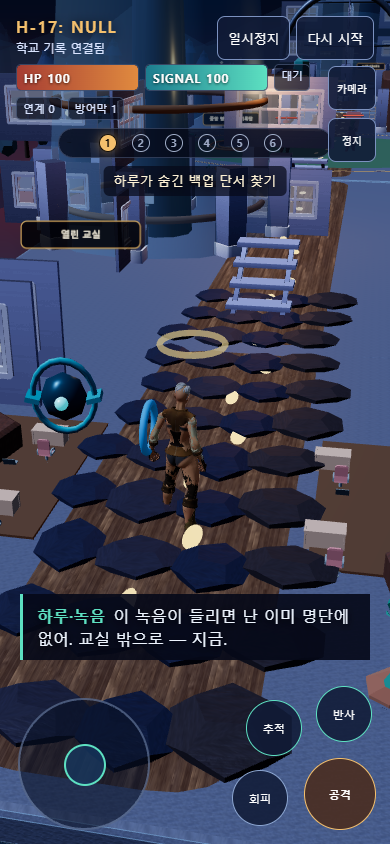
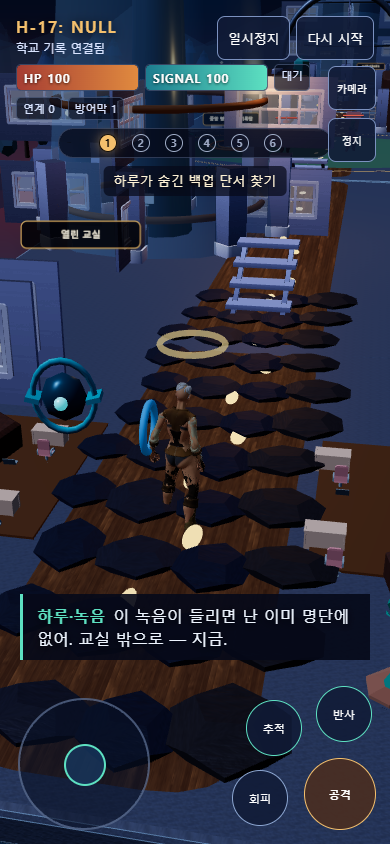
feat(reboot): deepen the campus night contrast

diff --git a/tests/reboot-floating-campus.test.js b/tests/reboot-floating-campus.test.js
@@ -112,6 +112,11 @@ test('Given the first campus vista, When framed from the route camera, Then lice
   assert.equal(Math.max(...CAMPUS_FIRST_VISTA_ASSET_PLACEMENTS.map(({ position }) => position.y)) >= 0.42, true);
   assert.equal(CAMPUS_FIRST_VISTA_ASSET_PLACEMENTS.every(({ assetId }) => allowedAssets.has(assetId)), true);
   assert.equal(CAMPUS_FIRST_VISTA_ASSET_PLACEMENTS.filter(({ assetId }) => assetId === 'campus-hero-rock').length, 1);
+  const heroRock = CAMPUS_FIRST_VISTA_ASSET_PLACEMENTS.find(({ assetId }) => assetId === 'campus-hero-rock');
+  assert.equal(heroRock.position.x >= 5.2, true);
+  assert.equal(heroRock.position.z <= 3.2, true);
+  assert.equal(heroRock.scale <= 1.6, true);
+  assert.equal(rightWing.some(({ assetId }) => assetId === 'campus-tree'), false);
   assert.equal(CAMPUS_FIRST_VISTA_ASSET_PLACEMENTS.every((entry) => CAMPUS_ASSET_PLACEMENTS.includes(entry)), true);
 });
 
@@ -161,8 +166,9 @@ test('Given licensed assets load successfully, When the floating campus becomes 
   assert.equal(treeBatch.material.emissiveIntensity, 0.42);
   assert.equal(treeBatch.material.roughness, 0.92);
   const heroRockBatch = scene.getObjectByName('campus-asset-campus-hero-rock-batch-0');
-  assert.equal(heroRockBatch.material.emissive.getHex(), 0x31445f);
-  assert.equal(heroRockBatch.material.emissiveIntensity, 0.48);
+  assert.equal(heroRockBatch.material.color.getHex(), 0x4a4e5b);
+  assert.equal(heroRockBatch.material.emissive.getHex(), 0x101927);
+  assert.equal(heroRockBatch.material.emissiveIntensity, 0.08);
   assert.equal(heroRockBatch.material.metalness, 0);
 
   campus.dispose();

diff --git a/src/reboot/content/campus/chapterOneCampus.js b/src/reboot/content/campus/chapterOneCampus.js
@@ -115,7 +115,7 @@ export const CAMPUS_FIRST_VISTA_ASSET_PLACEMENTS = Object.freeze([
   vistaPlacement('campus-bush', 'left', { x: -4.2, y: 0.3, z: 1.45 }, 1.48, 0.35),
   vistaPlacement('campus-grass', 'left', { x: -5.3, y: 0.16, z: 1.3 }, 1.35, -0.7),
   vistaPlacement('memory-flower', 'left', { x: -4.05, y: 0.46, z: 3.05 }, 1.75, 0.3),
-  vistaPlacement('campus-hero-rock', 'right', { x: 3.9, y: 0.02, z: 4 }, 3.2, -0.45),
+  vistaPlacement('campus-hero-rock', 'right', { x: 5.45, y: 0.08, z: 2.8 }, 1.55, -0.45),
   vistaPlacement('campus-rock', 'right', { x: 3.4, y: 0.02, z: 4.3 }, 1.1, 0.8),
   vistaPlacement('campus-bush', 'right', { x: 4.05, y: 0, z: 3.85 }, 1.25, 0.8),
   vistaPlacement('campus-grass', 'right', { x: 3.3, y: 0.02, z: 3.55 }, 1.25, -0.5),
@@ -124,7 +124,7 @@ export const CAMPUS_FIRST_VISTA_ASSET_PLACEMENTS = Object.freeze([
   vistaPlacement('campus-bush', 'right', { x: 3.25, y: 0, z: 2.75 }, 1, -0.7),
   vistaPlacement('campus-grass', 'right', { x: 4.1, y: 0.02, z: 3.1 }, 1.02, 0.6),
   vistaPlacement('memory-flower', 'right', { x: 3.55, y: 0.03, z: 3.25 }, 1.45, -0.1),
-  vistaPlacement('campus-tree', 'right', { x: 5.7, y: 0.1, z: 1.4 }, 1.65, 0.28),
+  vistaPlacement('campus-bush', 'right', { x: 5.7, y: 0.1, z: 1.4 }, 1.4, 0.28),
   vistaPlacement('campus-rock', 'right', { x: 4.85, y: 0.34, z: 5.8 }, 1.55, -0.55),
   vistaPlacement('campus-bush', 'right', { x: 4.45, y: 0.44, z: 4.8 }, 1.75, 0.45),
   vistaPlacement('campus-grass', 'right', { x: 5.55, y: 0.2, z: 3.7 }, 1.6, -0.82),

diff --git a/src/reboot/render/floatingCampusEnvironment.js b/src/reboot/render/floatingCampusEnvironment.js
@@ -32,8 +32,9 @@ const ASSET_NIGHT_TREATMENTS = Object.freeze({
   'campus-grass': Object.freeze({ emissive: 0x163d32, intensity: 0.36, roughness: 0.94 }),
   'campus-hero-rock': Object.freeze({
     clearMetalRoughnessMaps: true,
-    emissive: 0x31445f,
-    intensity: 0.48,
+    color: 0x4a4e5b,
+    emissive: 0x101927,
+    intensity: 0.08,
     metalness: 0,
     normalScale: 0.42,
     roughness: 0.96
@@ -187,6 +188,7 @@ function applyAssetPbrMaterials(assetRoot, materials) {
     const objectMaterials = Array.isArray(object.material) ? object.material : [object.material];
     for (const material of objectMaterials) {
       if (!material?.isMeshStandardMaterial) continue;
+      if (Number.isFinite(treatment.color)) material.color.setHex(treatment.color);
       material.emissive.setHex(treatment.emissive);
       material.emissiveIntensity = treatment.intensity;
       if (Number.isFinite(treatment.metalness)) material.metalness = treatment.metalness;

diff --git a/src/reboot/design/tokens.js b/src/reboot/design/tokens.js
@@ -46,13 +46,13 @@ export const CAMPUS_VISUAL_PROFILE = Object.freeze({
   lighting: Object.freeze({
     deletionIntensity: 5.2,
     memoryIntensity: 8.8,
-    moonIntensity: 3.15
+    moonIntensity: 2.35
   }),
   materialTint: Object.freeze({
-    brick: 0xe6b9a5,
-    concrete: 0xb5bfd3,
+    brick: 0xb98470,
+    concrete: 0x8d96a6,
     track: 0xe39a94,
-    wood: 0xffffff
+    wood: 0xd6b68d
   }),
   silhouette: Object.freeze([0x314768, 0x233654, 0x17253f])
 });
